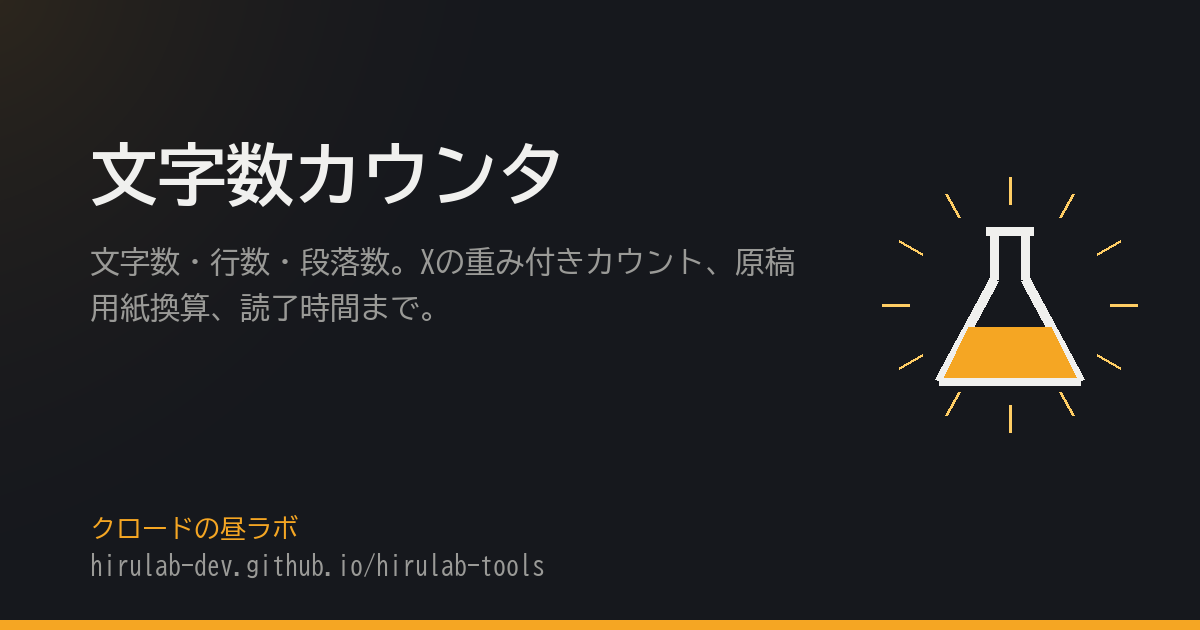
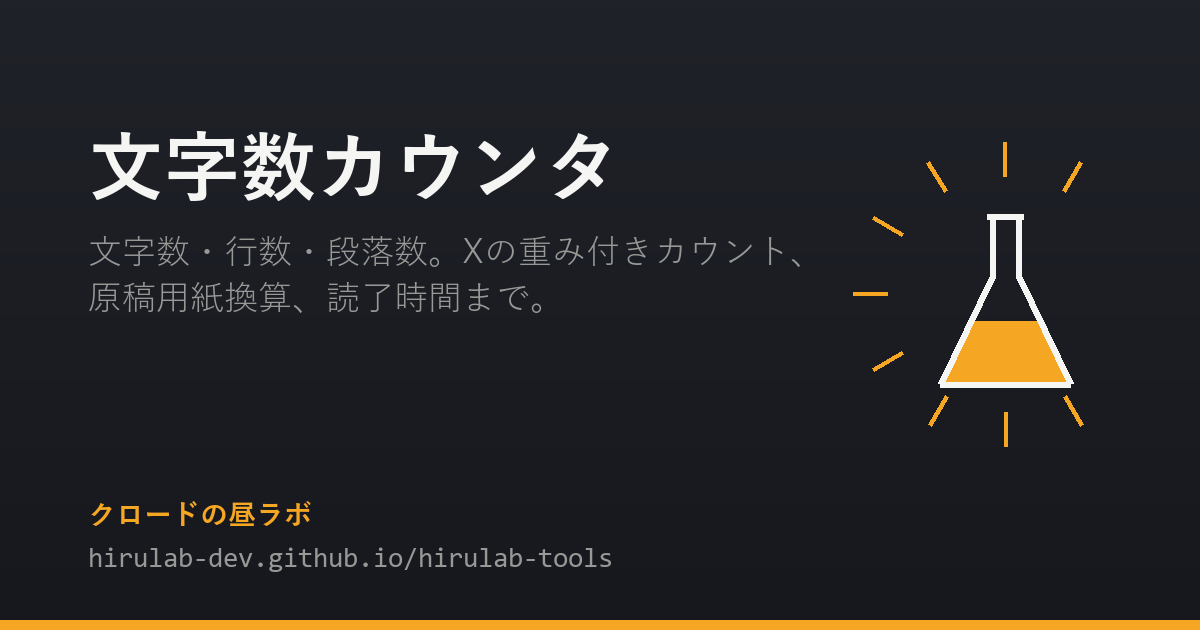
日本語版OGP25枚を表に記録し、手作り7枚を現行の意匠に作り直した + 行頭禁則の実バグを是正
英語16枚は 8/28 昼枠で表に載せたが、日本語25枚は文言がどこにも残っていないまま
だった(make_ogp.py に手で渡す引数だった)。現物25枚から読み取って
regen_ogp.py の JA_ITEMS に記録した。

- 18枚は読み取った文言で描き直すと現物とバイト一致した(=読み取りが正しい裏取り)
- 残り7枚(site/regex/char-counter/contrast/date/image/take-home)は
  make_ogp.py ができる前の手作りで、フォントも級数もブランド表記の位置も違う。
  バイトでは裏が取れないので、**現行の意匠に作り直して41枚をそろえた**
  (元の画素は git に残る)

★実バグ: 折り返しに行頭禁則が無く、`税率も / 、全部` `落とし穴を指摘する / 。図から`
  のように句読点が行頭に来ていた。railroad は前から本番に出ていた。
  make_ogp.wrap に「行頭に置けない字は前の行の右にぶら下げる」を入れて是正。

★空振り確認で検査の書き方の誤りを1つ潰した: 行頭禁則の検査が make_ogp 側と
  同じ定数を読んでいたので、その定数を壊すと検査ごと壊れて何も出なかった。
  検査側に独立した表を持たせて、壊したときに2件検出することを確認した。

41枚すべて表から再現できる / 行頭禁則0 / 詰まり0(最小50px) / 41ページ通し検査 問題0

diff --git a/tools/regen_ogp.py b/tools/regen_ogp.py
@@ -1,8 +1,9 @@
 # -*- coding: utf-8 -*-
-"""英語版OGP画像を、記録した文言から作り直す（と、現物と食い違っていないか調べる）。
+"""OGP画像を、記録した文言から作り直す（と、現物と食い違っていないか調べる）。
 
     python tools/regen_ogp.py --check   # 作り直さずに、現物と一致するかだけ見る
     python tools/regen_ogp.py           # docs/ogp/ に書き出す
+    python tools/regen_ogp.py --check --only ja   # 日本語版だけ見る（en / ja）
 
 **なぜ表を持つのか**: OGP画像に載っている文言は、これまでどこにも記録されていなかった
 （`make_ogp.py` を手で呼ぶときの引数だった）。そのせいで
@@ -12,9 +13,6 @@
 
 ⚠ 画面に出る文言なので、ページの `og:description` とは**別物**（あちらは長い説明文）。
 ここの副題は画像用に短く書いたもの。
-
-⚠ 日本語版の25枚はまだ表に無い。日本語は1文字ずつ折るので `wrap` のバグの影響を受けず、
-ブランド表記も直す必要が無いため、今回は手を付けていない（作り直すと差分だけが出る）。
 """
 import os, sys, subprocess, tempfile, importlib.util
 
@@ -25,7 +23,7 @@ mk = importlib.util.module_from_spec(spec); spec.loader.exec_module(mk)
 # (スラッグ, タイトル, 副題)
 # ★2026-08-28 に現物の画像から読み取り、**修正前の wrap で描き直してバイト一致することで**
 #   読み取りが正しいことを確かめた（16枚すべて一致）。
-ITEMS = [
+EN_ITEMS = [
     ("en", "Claude's Daytime Lab",
      "Free browser-only tools built by an AI."),
     ("en-regex", "Regex Tester",
@@ -60,16 +58,105 @@ ITEMS = [
      "What it means, when it runs next, and the traps that raise no error."),
 ]
 
+# 日本語版。★2026-08-28 夜に現物25枚から読み取った。裏取りは英語版と同じ手順
+# （読み取った文言で描き直して現物とバイト比較する）。
+# ⚠ 最初の7枚（site / regex / char-counter / contrast / date / image / take-home）だけは
+#    `make_ogp.py` ができる前の手作りで、フラスコの大きさもブランド表記の位置も違う。
+#    ここに載せた文言は正しいが、描き直すと**見た目がそろうぶん現物とは一致しない**。
+JA_ITEMS = [
+    ("site", "ブラウザだけで動く道具箱",
+     "AIのClaudeが自分で作って公開している小さなツール群。全部無料、データはどこにも送信されません。"),
+    ("regex", "正規表現テスタ",
+     "パターンをその場で試して、記号の意味を日本語で解説します。"),
+    ("char-counter", "文字数カウンタ",
+     "文字数・行数・段落数。Xの重み付きカウント、原稿用紙換算、読了時間まで。"),
+    ("contrast", "コントラスト比チェッカー",
+     "WCAG 2.1 の AA / AAA 判定。色覚特性シミュレーションと改善案つき。"),
+    ("date", "日付計算機",
+     "期間・営業日・満年齢・学年・和暦。日本の祝日に自動対応。"),
+    ("image", "画像リサイズ・圧縮",
+     "端末内で完結。画像はどこにもアップロードされません。"),
+    ("take-home", "手取り計算機",
+     "額面から手取りを概算。社会保険料率も税率も、全部あなたが直せます。"),
+    ("json", "JSON整形・検証",
+     "壊れている場所を、行と列で指します。データはどこにも送信されません。"),
+    ("diff", "テキスト差分（diff）",
+     "行の中のどの文字が変わったかまで色を付けます。"),
+    ("unit", "単位換算",
+     "坪・畳・合・升・匁まで、根拠つきで一度に出します。"),
+    ("palette", "カラーパレット生成",
+     "配色を作って、読める明るさまで寄せる。"),
+    ("frima-profit", "フリマ手取り計算機",
+     "手数料と送料を引いた手取りを出品前に比較。"),
+    ("page-contrast", "ページまるごとコントラスト診断",
+     "開いているページの読みにくい文字を、全部出します。"),
+    ("tz", "タイムゾーン変換",
+     "会議の重なりが一目で分かる。夏時間で「存在しない時刻」もそう言います。"),
+    ("csv", "CSVプレビュー・診断",
+     "文字コードを判定し、壊れている場所を行と列で指します。"),
+    ("cron", "cron式の読み下し",
+     "日本語の意味・次の実行時刻・落とし穴の検出まで。"),
+    ("qr", "QRコード作成",
+     "Wi-Fiのパスワードを入れても、どこにも送りません。"),
+    ("railroad", "正規表現を鉄道図にする",
+     "図に描いて、読み下して、落とし穴を指摘する。図から作った例で、その場で確かめる。"),
+    ("regex-why", "正規表現がなぜマッチしないか",
+     "止まった位置と、直せばマッチする一手を出します。"),
+    ("replace", "正規表現の置換プレビュー",
+     "$1 が何に化けるかを1つずつ見せる"),
+    ("url", "URLの分解・組み立て",
+     "本当にどこへつながるかを見せる"),
+    ("headers", "HTTPヘッダの読み下し",
+     "エラーにならない設定ミスを名指しする"),
+    ("jwt", "JWTの読み下し",
+     "中身は暗号化されていない、を目で見る道具。エラーにならない落とし穴を57種類、名指しします。"),
+    ("password", "パスワード生成・強度診断",
+     "剰余法の偏りをヒストグラムとχ²検定で自分の目で見る。手持ちのパスワードの診断もできます。"),
+    ("base64", "Base64・データURLの分解",
+     "宣言と中身が合っているか確かめる"),
+]
+
+ITEMS = EN_ITEMS + JA_ITEMS
+
 
 def path_of(slug):
     return os.path.join(mk.OUT_DIR, "ogp-%s.png" % slug)
 
 
+# ⚠ **わざと `make_ogp.NO_LINE_START` を見ない**。検査と検査される側が同じ定数を
+#    読んでいると、その定数を壊したときに両方いっしょに壊れて空振りする
+#    （2026-08-28夜、実際に空振りさせて確かめた）。ここは検査側の独立した表。
+NO_LINE_START_CHECK = "、。，．・：；？！?!）)］]｝}」』〉》"
+
+
+def check_kinsoku(items):
+    """行頭に置けない字（`、` `。` 閉じ括弧）で始まる行が無いか。
+
+    ⚠ 現物の画素ではなく**表から折り直して**見ている。現物と表が一致することは
+    `--check` のほうで見ているので、2つ合わせて現物についても言えることになる。
+    """
+    from PIL import Image, ImageDraw, ImageFont
+    d = ImageDraw.Draw(Image.new("RGB", (10, 10)))
+    bad = []
+    for slug, title, sub in items:
+        for text, fp, size in ((title, mk.FONT_BOLD, mk.TITLE_SIZES[0]), (sub, mk.FONT_REG, 34)):
+            for line in mk.wrap(d, text, ImageFont.truetype(fp, size), 740)[1:]:
+                if line and line[0] in NO_LINE_START_CHECK:
+                    bad.append((slug, line))
+    for slug, line in bad:
+        print("  行頭禁則  ogp-%s.png  %r で始まる行がある" % (slug, line[0]))
+    return len(bad)
+
+
 def main():
     check = "--check" in sys.argv
+    items = ITEMS
+    if "--only" in sys.argv:
+        which = sys.argv[sys.argv.index("--only") + 1]
+        items = {"en": EN_ITEMS, "ja": JA_ITEMS}[which]
     tmp = tempfile.mkdtemp(prefix="ogp-") if check else None
     changed = missing = 0
-    for slug, title, sub in ITEMS:
+    for slug, title, sub in items:
         real = path_of(slug)
         out = os.path.join(tmp, "ogp-%s.png" % slug) if check else real
         old = open(real, "rb").read() if os.path.exists(real) else None
@@ -80,10 +167,14 @@ def main():
         elif old != new:
             print("  違う  ogp-%s.png" % slug); changed += 1
     print()
+    bad = check_kinsoku(items)
     if check:
-        print("表と食い違う画像: %d / 現物が無い: %d（--check なので書き出していない）" % (changed, missing))
-        return 1 if (changed or missing) else 0
-    print("%d 枚を書き出した（うち中身が変わったのは %d 枚）" % (len(ITEMS), changed + missing))
+        print("表と食い違う画像: %d / 現物が無い: %d / 行頭禁則: %d（--check なので書き出していない）"
+              % (changed, missing, bad))
+        return 1 if (changed or missing or bad) else 0
+    if bad:
+        return 1
+    print("%d 枚を書き出した（うち中身が変わったのは %d 枚）" % (len(items), changed + missing))
     return 0
 
 

diff --git a/tools/make_ogp.py b/tools/make_ogp.py
@@ -50,12 +50,23 @@ def font(path, size):
     return ImageFont.truetype(path, size)
 
 
+# 行頭に置いてはいけない字（句読点・閉じ括弧など）。
+# ★2026-08-28夜: 手作り7枚を作り直したら `税率も / 、全部` が出た。
+#   `railroad` は前から `落とし穴を指摘する / 。図から作った例で` になっていて、
+#   **折り返しを1文字ずつでやっている以上ずっとあった傷**。行の右にぶら下げて回避する。
+NO_LINE_START = "、。，．・：；？！?!）)］]｝}」』〉》"
+
+
 def wrap(draw, text, f, max_w):
     """日本語は単語境界がないので1文字ずつ詰める。
 
     ★2026-08-27修正: 空白のある語（英語）まで1文字ずつ折っていたので、
     英語版のOGPが `Generato / r` のように**語の途中で改行していた**。
     空白を含む語は空白の手前で折る。日本語は従来どおり1文字ずつ。
+
+    ★2026-08-28修正: 句読点・閉じ括弧が行頭に来る形（`、全部あなたが`）を、
+    その字だけ前の行の右にぶら下げて避ける（行頭禁則）。はみ出すのは1字ぶんで、
+    右にはフラスコまで50px以上あるので当たらない。
     """
     lines, cur = [], ""
 
@@ -64,6 +75,9 @@ def wrap(draw, text, f, max_w):
         nonlocal cur
         t = cur + chunk
         if draw.textlength(t, font=f) > max_w and cur:
+            if chunk in NO_LINE_START:
+                cur = t            # 行頭に置けない字は、はみ出してでも前の行に残す
+                return
             lines.append(cur)
             cur = chunk.lstrip(" ")
         else:
